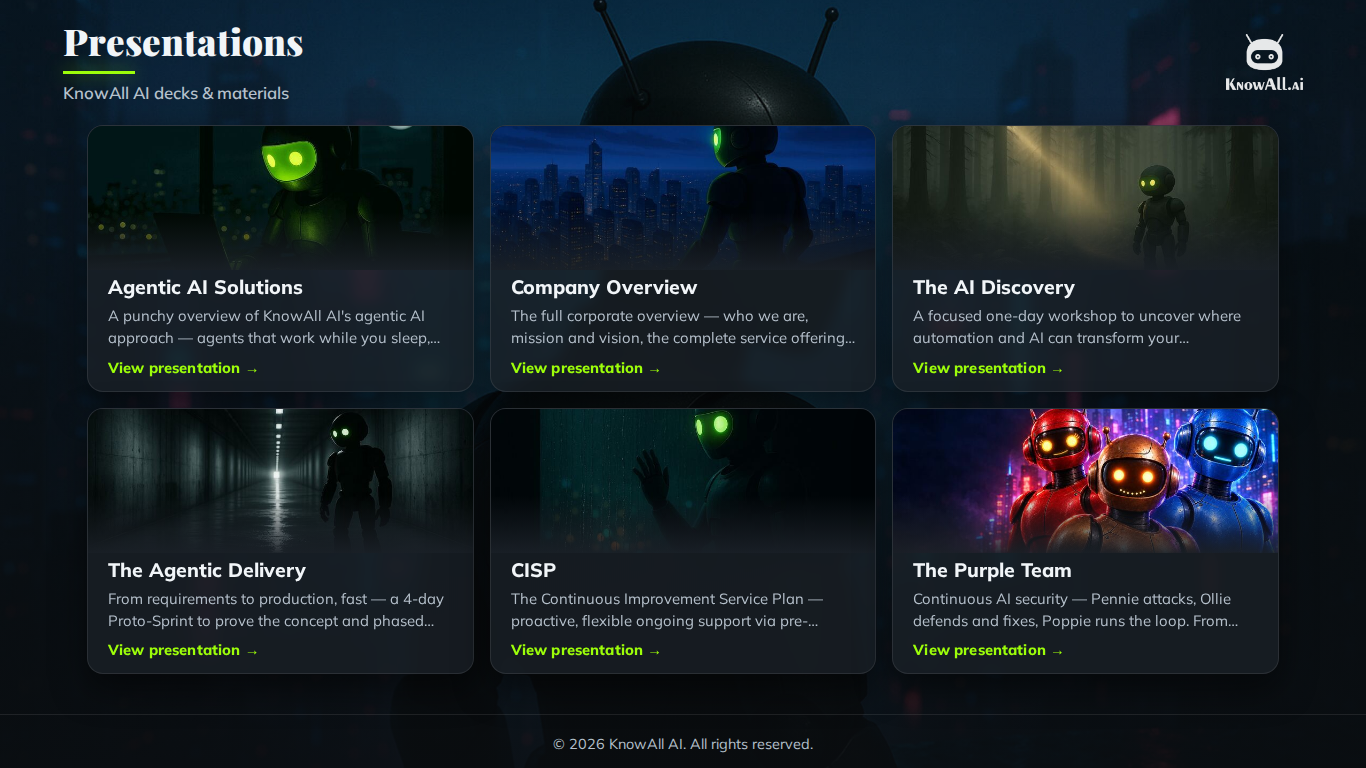
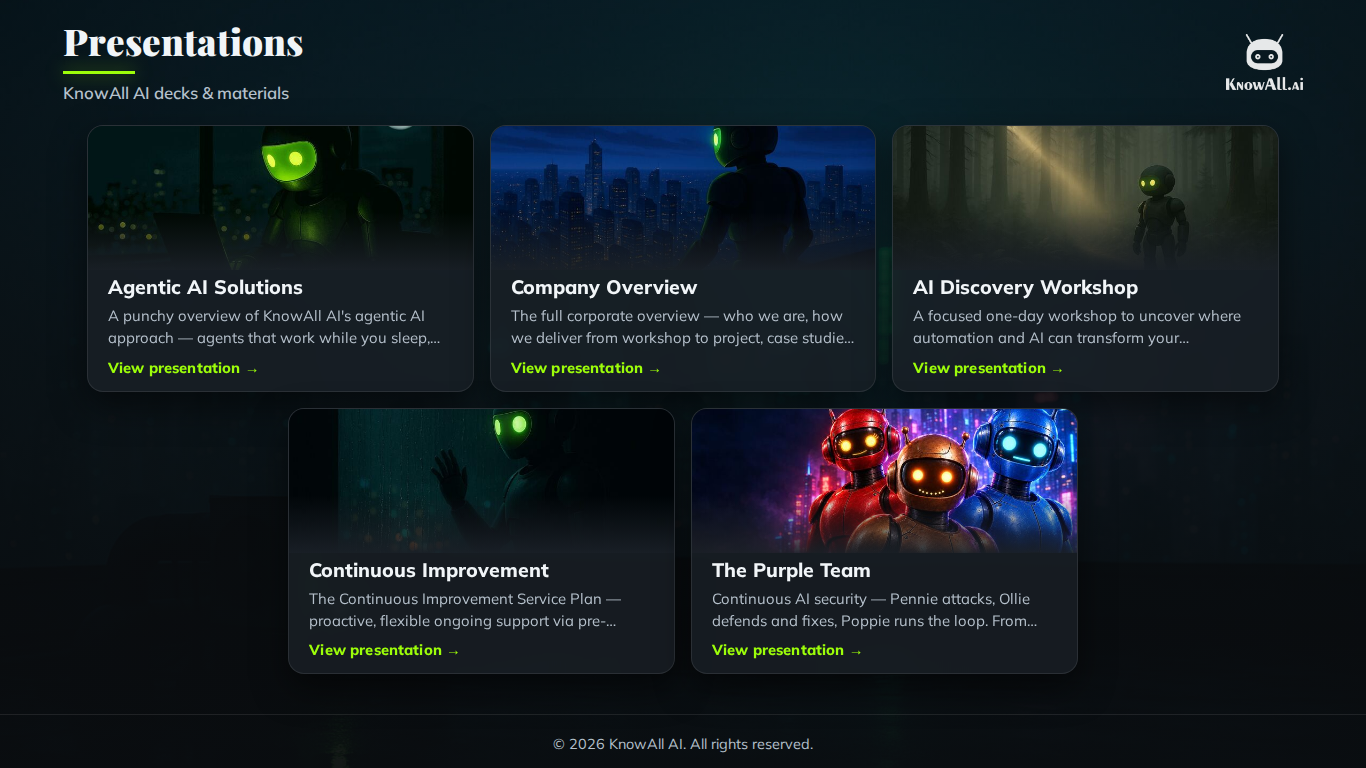
fix(presentations): review fixes — copy, Foundry naming, carousel a11y, fresh index screenshots
- 'The AI Discovery Workshop is…' gets its article back
- Company Overview's workshop subtitle says 2–4 days, like the rest
- 'Microsoft Foundry' everywhere (was 'Azure AI Foundry' in two decks and
  Sallie's site index)
- Portal carousel: role=group, aria-current on the dots, pauses on hover
  and focus (WCAG 2.2.2)
- presentations-index screenshots regenerated (five decks, new names)

diff --git a/app/api/chat/site-index.ts b/app/api/chat/site-index.ts
@@ -23,8 +23,8 @@ Other pages:
 - Shop (/shop): our products and merchandise, listed on Nostr and paid for with Bitcoin over Lightning. Policies: shipping (/shop/policies/shipping), refunds (/shop/policies/refunds), privacy (/shop/policies/privacy), terms (/shop/policies/terms).
 
 Presentations (https://www.knowall.ai/presentations/) — our slide decks, each opening in the browser. Use them: when a visitor wants more detail or depth on a topic, give a short answer and then link the deck that covers it "for more information". Never paste a whole deck into chat.
-- Agentic AI Solutions (https://www.knowall.ai/presentations/agentic-ai-solutions.html): our flagship pitch, "Agentic AI that works while you sleep". Why agents beat a "better search box" Copilot; Preppie the AI requirements analyst; the eight core T-Minus-15 delivery agents the deck features (Sallie, Poppie, Preppie, Dannie, Ernie, Teddie, Ollie, Archie) running in Claude Code, Azure AI Foundry and OpenClaw — the website's Meet the Agents section shows the full team of eleven, adding Pennie, Allie and Zaplie; the agents we run ourselves (Sallie, Allie for Accounts, Nodie the node runner); self-improving agents that raise PRs to their own code with a human in the loop; a Neo4j knowledge-graph memory that consolidates overnight; enterprise security (encryption, RBAC with Microsoft Entra ID and MFA, audit trails, zero trust); deep Microsoft integration; results such as four days from idea to prototype, 80%+ straight-through processing of 1,600 monthly invoices, 2–4 weeks to production; proof from John Henry Group, Belfast HSC Trust, London Borough of Sutton, Scottish Water, Leeds Beckett University, Cambridgeshire County Council, David Lloyd and Octopus Energy; partners Microsoft, Anthropic, OpenAI, eir business and XMA; ends with "Book a Discovery Day". Best for: what agentic AI is and how it differs from Copilot, whether agents really work autonomously, memory and self-improvement, enterprise security, who we've built for.
-- Company Overview (https://www.knowall.ai/presentations/company-overview.html): the full credentials deck, and now also where the Agentic Delivery Workshop lives. Formed 2019, Microsoft specialists since 2003, UK-based with the team across the UK, Ireland, Northern Ireland, Poland, India and Ukraine; MCP servers listed in Anthropic's directory; open-source first. The shift: building is cheap, building the wrong thing is expensive, so every engagement starts with requirements. Mission: fuse AI, Bitcoin and low-code and reward teammates, agents and customers for the value they create. Vision: idea to production in a single meeting (today focused Agentic Delivery Workshops, next live builds in a two-hour meeting, beyond ideas becoming software overnight). Customers across telecoms, civil engineering, manufacturing, ICT, education and healthcare. The five engagement models: 01 Discovery Day (€2,000 fixed, one day), 02 Agentic Delivery Workshop (a Proto-Sprint: 2–4 days from idea to working prototype, €2,000–€4,500), 03 Projects (€25k–€100k per phase, time and materials, 3–6 weeks per phase, 2-to-3-week sprints), 04 Blended Squads (embedded Scrum Masters, Preppers, designers, engineers, testers and operators on a multi-year agreement), 05 Continuous Improvement, a CISP or Continuous Improvement Service Plan (support blocks, see below). Two stages, one journey: prove it in the workshop, scale it as a Project, both on T-Minus-15. Case studies: invoice automation for a property developer, ~1,600 invoices a month via Power Automate and AI OCR into Business Central, 80%+ straight-through, about €50,000 in 8 weeks; digital health-and-safety inspections for a nationwide engineering firm on Power Apps, Dataverse and Power BI, about €30,000 in 4 weeks. Proof of work logos include Belfast HSC Trust, HSE, HRB, Cairn Homes, Medite Smartply, SK Biotek, W&R Barnett, UM Group, GRETB, Public Jobs and John Henry Group. Platforms we build on: Microsoft, Anthropic and OpenAI; partners we go to market with: eir business and XMA. Our products: Zaplie (getzapl.ie), Zapdesk, Thyme, Wardie and Bookie. An Our agents slide shows all eleven agents, tagged T-Minus-15 (Poppie, Preppie, Archie, Dannie, Ernie, Teddie, Pennie, Ollie) and Purple Team (Poppie, Pennie, Ollie); Sallie, Allie and Zaplie run KnowAll's own business. Then: self-improving agents that raise pull requests to their own code with a human approving every change; Reverie, the Neo4j graph memory that consolidates overnight (open source: https://github.com/knowall-ai/mcp-reverie); Presence, the shared media plane that puts our agents on Teams calls (realtime voice, a live avatar with an on-video HUD, screen share, knowing who is speaking), used by Sallie and Poppie today; enterprise security (encryption, Entra ID with RBAC and MFA, audit trails, zero trust); Microsoft integration from Microsoft 365, Copilot and Copilot Studio to Azure AI Foundry, Power Platform, Fabric and Dataverse; and the Purple Team (Pennie attacks, Ollie defends and fixes, Poppie runs the loop). Best for: who we are, what we offer and what it costs, how a project actually runs and what a Proto-Sprint costs, case studies with numbers, sectors and clients, our agents and how they remember, join calls and stay secure.
+- Agentic AI Solutions (https://www.knowall.ai/presentations/agentic-ai-solutions.html): our flagship pitch, "Agentic AI that works while you sleep". Why agents beat a "better search box" Copilot; Preppie the AI requirements analyst; the eight core T-Minus-15 delivery agents the deck features (Sallie, Poppie, Preppie, Dannie, Ernie, Teddie, Ollie, Archie) running in Claude Code, Microsoft Foundry and OpenClaw — the website's Meet the Agents section shows the full team of eleven, adding Pennie, Allie and Zaplie; the agents we run ourselves (Sallie, Allie for Accounts, Nodie the node runner); self-improving agents that raise PRs to their own code with a human in the loop; a Neo4j knowledge-graph memory that consolidates overnight; enterprise security (encryption, RBAC with Microsoft Entra ID and MFA, audit trails, zero trust); deep Microsoft integration; results such as four days from idea to prototype, 80%+ straight-through processing of 1,600 monthly invoices, 2–4 weeks to production; proof from John Henry Group, Belfast HSC Trust, London Borough of Sutton, Scottish Water, Leeds Beckett University, Cambridgeshire County Council, David Lloyd and Octopus Energy; partners Microsoft, Anthropic, OpenAI, eir business and XMA; ends with "Book a Discovery Day". Best for: what agentic AI is and how it differs from Copilot, whether agents really work autonomously, memory and self-improvement, enterprise security, who we've built for.
+- Company Overview (https://www.knowall.ai/presentations/company-overview.html): the full credentials deck, and now also where the Agentic Delivery Workshop lives. Formed 2019, Microsoft specialists since 2003, UK-based with the team across the UK, Ireland, Northern Ireland, Poland, India and Ukraine; MCP servers listed in Anthropic's directory; open-source first. The shift: building is cheap, building the wrong thing is expensive, so every engagement starts with requirements. Mission: fuse AI, Bitcoin and low-code and reward teammates, agents and customers for the value they create. Vision: idea to production in a single meeting (today focused Agentic Delivery Workshops, next live builds in a two-hour meeting, beyond ideas becoming software overnight). Customers across telecoms, civil engineering, manufacturing, ICT, education and healthcare. The five engagement models: 01 Discovery Day (€2,000 fixed, one day), 02 Agentic Delivery Workshop (a Proto-Sprint: 2–4 days from idea to working prototype, €2,000–€4,500), 03 Projects (€25k–€100k per phase, time and materials, 3–6 weeks per phase, 2-to-3-week sprints), 04 Blended Squads (embedded Scrum Masters, Preppers, designers, engineers, testers and operators on a multi-year agreement), 05 Continuous Improvement, a CISP or Continuous Improvement Service Plan (support blocks, see below). Two stages, one journey: prove it in the workshop, scale it as a Project, both on T-Minus-15. Case studies: invoice automation for a property developer, ~1,600 invoices a month via Power Automate and AI OCR into Business Central, 80%+ straight-through, about €50,000 in 8 weeks; digital health-and-safety inspections for a nationwide engineering firm on Power Apps, Dataverse and Power BI, about €30,000 in 4 weeks. Proof of work logos include Belfast HSC Trust, HSE, HRB, Cairn Homes, Medite Smartply, SK Biotek, W&R Barnett, UM Group, GRETB, Public Jobs and John Henry Group. Platforms we build on: Microsoft, Anthropic and OpenAI; partners we go to market with: eir business and XMA. Our products: Zaplie (getzapl.ie), Zapdesk, Thyme, Wardie and Bookie. An Our agents slide shows all eleven agents, tagged T-Minus-15 (Poppie, Preppie, Archie, Dannie, Ernie, Teddie, Pennie, Ollie) and Purple Team (Poppie, Pennie, Ollie); Sallie, Allie and Zaplie run KnowAll's own business. Then: self-improving agents that raise pull requests to their own code with a human approving every change; Reverie, the Neo4j graph memory that consolidates overnight (open source: https://github.com/knowall-ai/mcp-reverie); Presence, the shared media plane that puts our agents on Teams calls (realtime voice, a live avatar with an on-video HUD, screen share, knowing who is speaking), used by Sallie and Poppie today; enterprise security (encryption, Entra ID with RBAC and MFA, audit trails, zero trust); Microsoft integration from Microsoft 365, Copilot and Copilot Studio to Microsoft Foundry, Power Platform, Fabric and Dataverse; and the Purple Team (Pennie attacks, Ollie defends and fixes, Poppie runs the loop). Best for: who we are, what we offer and what it costs, how a project actually runs and what a Proto-Sprint costs, case studies with numbers, sectors and clients, our agents and how they remember, join calls and stay secure.
 - AI Discovery Workshop (https://www.knowall.ai/presentations/ai-discovery.html): the one-day workshop, €2,000 fixed price. Pre-work surveys, an on-site workshop, one-to-one interviews, a value-versus-effort prioritisation (quick wins, major projects, fill-ins, reconsider) and a report with lean business cases. The ideal first step before a Proto-Sprint or project. Best for: "where should we start with AI?", what the Discovery Day involves and costs, how we decide which ideas are worth doing, building a business case.
 - CISP, the Continuous Improvement Service Plan (https://www.knowall.ai/presentations/cisp.html): ongoing support after go-live via pre-purchased time-and-material blocks, typically a twelve-month term, covering Microsoft, AI and custom solutions. Tiers: Gold (4-hour response, 1 business day; Strategic €1,250/day, delivery roles €950/day), Silver (8 hours, 2 business days; €1,200 / €900), Bronze (16 hours, 3 business days; €1,150 / €850). Delivery roles: Prepper, Designer, Engineer, Tester, Operator, Scrum Master. Best for: support after go-live, how a CISP is priced, SLA response times, day rates, buying a block of hours instead of a project.
 - The Purple Team (https://www.knowall.ai/presentations/purple-team.html): continuous AI security. The CVE flood and CISA's exploited list, frontier models on defence, Pennie, Ollie and Poppie, the attack, defend, fix, report loop, advisory-to-merged-fix patching, safe-by-design rules, the tools it works with, the Purple Team Portal, hosted or in-tenant or fully sovereign, and paying by real hours on a CISP after a Security Discovery. Best for: how the Purple Team works, is it safe, where it runs, how it is paid for.

diff --git a/public/presentations/purple-team.html b/public/presentations/purple-team.html
@@ -1095,7 +1095,7 @@
                   <div><strong>Time spent per case,</strong> so every hour billed is accounted for.</div>
                 </div>
               </div>
-              <div class="portal-shot portal-carousel" aria-roledescription="carousel" aria-label="Purple Team Portal screens">
+              <div class="portal-shot portal-carousel" role="group" aria-roledescription="carousel" aria-label="Purple Team Portal screens">
                 <div class="pc-track">
                   <figure class="pc-slide is-active" aria-hidden="false">
                     <img src="images/portal-dashboard.jpg" alt="Purple Team Portal, Dashboard page, for the fictional company Contoso: Security score, its trend and the month's key figures" />
@@ -1285,7 +1285,10 @@
         const show = (n) => {
           i = (n + slides.length) % slides.length;
           slides.forEach((s, k) => { s.classList.toggle('is-active', k === i); s.setAttribute('aria-hidden', String(k !== i)); });
-          dots.forEach((d, k) => d.classList.toggle('is-active', k === i));
+          dots.forEach((d, k) => {
+            d.classList.toggle('is-active', k === i);
+            d.setAttribute('aria-current', String(k === i));
+          });
         };
         const stop = () => { clearInterval(timer); timer = null; };
         const start = () => { if (!still && !timer) timer = setInterval(() => show(i + 1), 4500); };
@@ -1296,6 +1299,10 @@
         // keep the deck's own keyboard and swipe handling away from the controls
         root.querySelectorAll('button').forEach((b) => b.addEventListener('keydown', (e) => e.stopPropagation()));
         Reveal.on('ready', onSlide);
+        // Pause while the visitor is looking at or using it (WCAG 2.2.2).
+        root.addEventListener('mouseenter', stop);
+        root.addEventListener('focusin', stop);
+        root.addEventListener('mouseleave', onSlide);
         Reveal.on('slidechanged', onSlide);
         if (Reveal.isReady()) onSlide();
       })();

diff --git a/public/presentations/agentic-ai-solutions.html b/public/presentations/agentic-ai-solutions.html
@@ -670,7 +670,7 @@
                 <svg class="ic"><use href="icons.svg#i-refresh-cw" /></svg>
                 <p>
                   <strong>One definition, many embodiments</strong>
-                  The same agents &amp; skills run in Claude Code, Azure AI Foundry (Microsoft bots)
+                  The same agents &amp; skills run in Claude Code, Microsoft Foundry (Microsoft bots)
                   and OpenClaw.
                 </p>
               </div>
@@ -714,7 +714,7 @@
                 </div>
                 <div>
                   <h4>Allie &middot; Accounts</h4>
-                  <p class="agent-how">Azure AI Foundry agent</p>
+                  <p class="agent-how">Microsoft Foundry agent</p>
                   <p>
                     Our AI accounts copilot. She lives in Microsoft Teams and looks after the
                     day-to-day of your accounts department &mdash; raising quotes and invoices,
@@ -1152,7 +1152,7 @@
                   <h4>Copilots &amp; AI agents</h4>
                   <p>
                     Custom copilots and agents built with Copilot Studio, the Bot Framework and
-                    Azure AI Foundry &mdash; grounded in your own data and processes.
+                    Microsoft Foundry &mdash; grounded in your own data and processes.
                   </p>
                 </div>
               </div>

diff --git a/public/presentations/company-overview.html b/public/presentations/company-overview.html
@@ -985,7 +985,7 @@
           <div class="band">
             <div>
               <h2>Service &middot; Agentic Delivery Workshop</h2>
-              <p class="band-sub">Four days from idea to working prototype</p>
+              <p class="band-sub">2&ndash;4 days from idea to working prototype</p>
             </div>
             <img class="logo-dark" src="/images/logo.png" alt="KnowAll.ai" />
           </div>
@@ -2112,7 +2112,7 @@
               </div>
               <div class="ms-tile" role="listitem">
                 <div class="ms-plate"><img src="images/logos/ai-foundry.svg" alt="" /></div>
-                <span>Azure AI Foundry</span>
+                <span>Microsoft Foundry</span>
               </div>
               <div class="ms-tile" role="listitem">
                 <div class="ms-plate"><img src="images/logos/power-platform.svg" alt="" /></div>

diff --git a/public/presentations/ai-discovery.html b/public/presentations/ai-discovery.html
@@ -70,7 +70,7 @@
           </div>
           <div class="content">
             <p class="lead" style="max-width: 1560px">
-              AI Discovery Workshop is a focused, one-day engagement designed to uncover how automation
+              The AI Discovery Workshop is a focused, one-day engagement designed to uncover how automation
               and AI can enhance your organisation. We work with your team to identify processes
               ripe for automation, gather ideas, and evaluate opportunities by value, effort and
               complexity &mdash; setting the stage for future AI projects.
